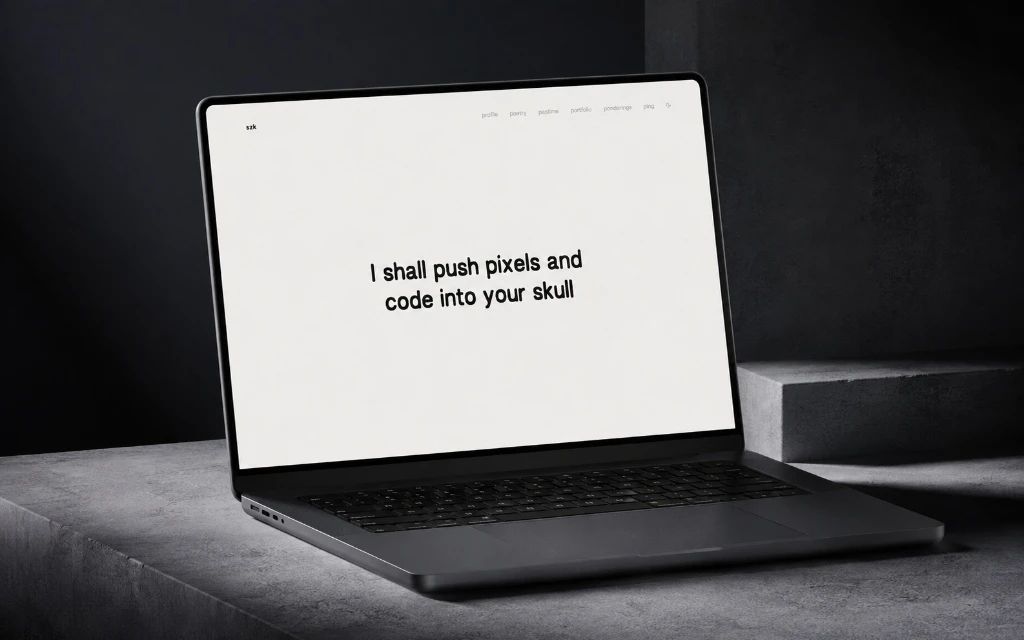
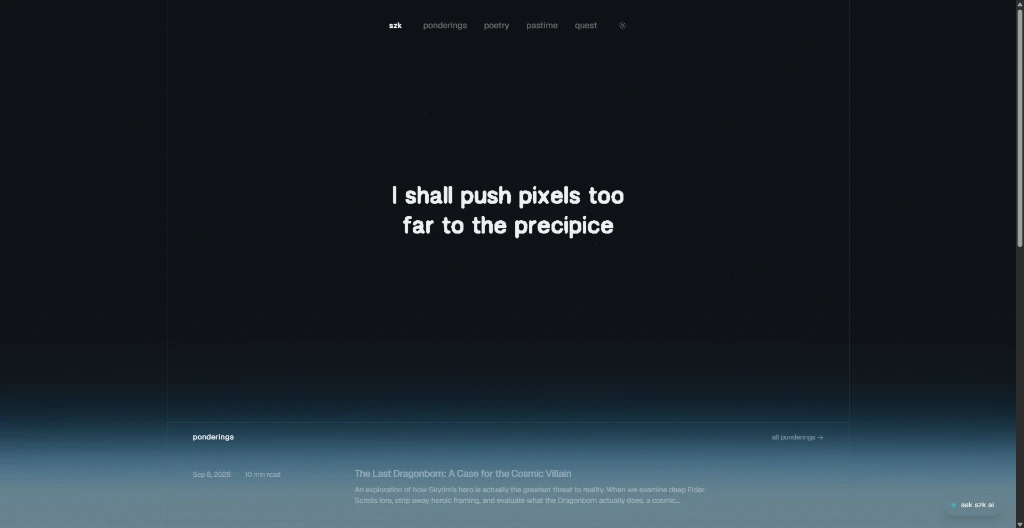
style: refine about page typography, restore szk cosmic portal and add personal links

diff --git a/src/pages/About.tsx b/src/pages/About.tsx
@@ -5,6 +5,7 @@ import { Footer } from '@/components/Footer';
 import { useExploration } from '@/context/ExplorationContext';
 import { ArtifactCollage, ArtifactImage } from '@/components/ArtifactCollage';
 import { TestimonialsMarquee } from '@/components/home/TestimonialsMarquee';
+import { BorderGlow } from '@/components/effects/BorderGlow';
 import { PERSON_JSON_LD, CANONICAL_SITE_URL } from '@/data/siteSettings';
 
 interface CertificationItem {
@@ -329,22 +330,6 @@ const About: React.FC = () => {
                     <path d="M0 28.5C0 33.7467 4.25329 38 9.5 38H19V19H9.5C4.25329 19 0 23.2533 0 28.5Z" fill="#A259FF"/>
                   </svg>
                 </div>
-                {/* Tokens Studio / Variable Token */}
-                <div title="Design Tokens / Variables" className="transition-all duration-300 filter grayscale opacity-40 group-hover:grayscale-0 group-hover:opacity-100">
-                  <svg className="h-6 w-auto" viewBox="0 0 24 24" fill="none">
-                    <rect x="3" y="3" width="8" height="8" rx="2" fill="#A855F7"/>
-                    <rect x="13" y="3" width="8" height="8" rx="2" fill="#9333EA"/>
-                    <rect x="3" y="13" width="8" height="8" rx="2" fill="#7E22CE"/>
-                    <rect x="13" y="13" width="8" height="8" rx="2" fill="#C084FC"/>
-                  </svg>
-                </div>
-                {/* FigJam */}
-                <div title="FigJam" className="transition-all duration-300 filter grayscale opacity-40 group-hover:grayscale-0 group-hover:opacity-100">
-                  <svg className="h-6 w-auto" viewBox="0 0 24 24" fill="none">
-                    <circle cx="12" cy="12" r="9" stroke="#FF7262" strokeWidth="2.5"/>
-                    <path d="M9 12H15M12 9V15" stroke="#FF7262" strokeWidth="2.5" strokeLinecap="round"/>
-                  </svg>
-                </div>
               </div>
             </div>
 
@@ -535,11 +520,10 @@ const About: React.FC = () => {
                 <div className="space-y-6 pt-1">
                   {/* Bucket 1: Interface Design */}
                   <div className="space-y-2.5">
-                    <h4 className="text-xs uppercase tracking-wider text-[#FFFFFF] font-mono flex items-center gap-2">
-                      <span className="w-1.5 h-1.5 rounded-full bg-[#FFFFFF]" />
-                      <span>Interface Design &amp; High-Stakes Client Delivery</span>
+                    <h4 className="text-xs uppercase tracking-wider text-[#FFFFFF] font-mono">
+                      Interface Design &amp; High-Stakes Client Delivery
                     </h4>
-                    <ul className="space-y-2 pl-3.5 text-xs sm:text-sm text-[#999999] leading-relaxed">
+                    <ul className="space-y-2 text-xs sm:text-sm text-[#999999] leading-relaxed">
                       <li className="flex items-start gap-2">
                         <span className="text-[#555555] shrink-0 mt-0.5">—</span>
                         <span><strong className="text-[#CCCCCC]">Alyssa Kristin (Luxury Bridal SaaS):</strong> Designed a connected multi-platform ecosystem spanning a mobile Stylist App, Web Admin CMS, and CRM; praised by the client via internal feedback as "clean, thorough, and easily accessible."</span>
@@ -561,11 +545,10 @@ const About: React.FC = () => {
 
                   {/* Bucket 2: Brand Systems & Sales Enablement */}
                   <div className="space-y-2.5">
-                    <h4 className="text-xs uppercase tracking-wider text-[#FFFFFF] font-mono flex items-center gap-2">
-                      <span className="w-1.5 h-1.5 rounded-full bg-[#FFFFFF]" />
-                      <span>Brand Systems &amp; Sales Enablement</span>
+                    <h4 className="text-xs uppercase tracking-wider text-[#FFFFFF] font-mono">
+                      Brand Systems &amp; Sales Enablement
                     </h4>
-                    <ul className="space-y-2 pl-3.5 text-xs sm:text-sm text-[#999999] leading-relaxed">
+                    <ul className="space-y-2 text-xs sm:text-sm text-[#999999] leading-relaxed">
                       <li className="flex items-start gap-2">
                         <span className="text-[#555555] shrink-0 mt-0.5">—</span>
                         <span><strong className="text-[#CCCCCC]">AI Control Tower Suite:</strong> Created complete brand identity systems, logos, OpenGraph social assets, and 10+ comprehensive sales enablement decks for enterprise products (ePhysician, Marketing AI, Client Success AI, MortgageAI, RealtorHelp, Restaurant AI, NonProfit AI).</span>
@@ -583,11 +566,10 @@ const About: React.FC = () => {
 
                   {/* Bucket 3: Client Scale & Rapid Production */}
                   <div className="space-y-2.5">
-                    <h4 className="text-xs uppercase tracking-wider text-[#FFFFFF] font-mono flex items-center gap-2">
-                      <span className="w-1.5 h-1.5 rounded-full bg-[#FFFFFF]" />
-                      <span>Client Scale &amp; Rapid Production</span>
+                    <h4 className="text-xs uppercase tracking-wider text-[#FFFFFF] font-mono">
+                      Client Scale &amp; Rapid Production
                     </h4>
-                    <ul className="space-y-2 pl-3.5 text-xs sm:text-sm text-[#999999] leading-relaxed">
+                    <ul className="space-y-2 text-xs sm:text-sm text-[#999999] leading-relaxed">
                       <li className="flex items-start gap-2">
                         <span className="text-[#555555] shrink-0 mt-0.5">—</span>
                         <span><strong className="text-[#CCCCCC]">LuCreativ / 3i Advertising:</strong> Scaled account from an initial project to sustained, near-daily production across 7+ regional theme parks (Six Flags St. Louis, Valleyfair, Michigan's Adventure, Worlds of Fun, Schlitterbahn Galveston, Enchanted Parks).</span>
@@ -601,11 +583,10 @@ const About: React.FC = () => {
 
                   {/* Bucket 4: AI Prototyping, Web Discovery & Growth */}
                   <div className="space-y-2.5">
-                    <h4 className="text-xs uppercase tracking-wider text-[#FFFFFF] font-mono flex items-center gap-2">
-                      <span className="w-1.5 h-1.5 rounded-full bg-[#FFFFFF]" />
-                      <span>AI Prototyping, Web Discovery &amp; Growth</span>
+                    <h4 className="text-xs uppercase tracking-wider text-[#FFFFFF] font-mono">
+                      AI Prototyping, Web Discovery &amp; Growth
                     </h4>
-                    <ul className="space-y-2 pl-3.5 text-xs sm:text-sm text-[#999999] leading-relaxed">
+                    <ul className="space-y-2 text-xs sm:text-sm text-[#999999] leading-relaxed">
                       <li className="flex items-start gap-2">
                         <span className="text-[#555555] shrink-0 mt-0.5">—</span>
                         <span><strong className="text-[#CCCCCC]">Web Architecture &amp; Discoverability:</strong> Structured and optimized 761+ pages across 3 major properties on the Lovable platform for on-page SEO and AI discoverability (JSON-LD schemas, semantic heading hierarchies, metadata, and Search Console indexing).</span>
@@ -801,7 +782,7 @@ const About: React.FC = () => {
               <ul className="space-y-2 text-xs text-[#888888] leading-relaxed">
                 <li className="flex items-start gap-2">
                   <span className="text-[#555555] shrink-0 mt-0.5">▪</span>
-                  <span>Served in the Service Team (সেবাদল) at the Golden Jubilee Rover Moot 2023, receiving the official Service Team Award crest with troop peers.</span>
+                  <span>Served in the Service Team at the Golden Jubilee Rover Moot 2023, receiving the official Service Team Award crest with troop peers.</span>
                 </li>
                 <li className="flex items-start gap-2">
                   <span className="text-[#555555] shrink-0 mt-0.5">▪</span>
@@ -820,9 +801,20 @@ const About: React.FC = () => {
             {/* Personal Pursuits */}
             <div className="lg:col-span-5 grid grid-cols-1 sm:grid-cols-2 lg:grid-cols-1 gap-4">
               <div className="p-5 rounded-[4px] bg-[#0A0A0A] border border-[#1F1F1F] space-y-2">
-                <div className="flex items-center gap-2 text-sm text-[#FFFFFF] font-normal border-b border-[#1A1A1A] pb-2">
-                  <span>🎬</span>
-                  <span>Cinema &amp; Human Narrative</span>
+                <div className="flex items-center justify-between border-b border-[#1A1A1A] pb-2">
+                  <div className="flex items-center gap-2 text-sm text-[#FFFFFF] font-normal">
+                    <span>🎬</span>
+                    <span>Cinema &amp; Human Narrative</span>
+                  </div>
+                  <a
+                    href="https://letterboxd.com/Annyxtopheles/"
+                    target="_blank"
+                    rel="noopener noreferrer"
+                    className="text-[11px] font-mono text-[#888888] hover:text-[#FFFFFF] transition-colors flex items-center gap-1"
+                  >
+                    <span>Letterboxd</span>
+                    <span className="text-[10px]">↗</span>
+                  </a>
                 </div>
                 <p className="text-xs text-[#999999] leading-relaxed">
                   Drawn to cinema observing human complexity, discipline, and moral weight — works by Andrei Tarkovsky, Akira Kurosawa, and Park Chan-wook.
@@ -830,9 +822,20 @@ const About: React.FC = () => {
               </div>
 
               <div className="p-5 rounded-[4px] bg-[#0A0A0A] border border-[#1F1F1F] space-y-2">
-                <div className="flex items-center gap-2 text-sm text-[#FFFFFF] font-normal border-b border-[#1A1A1A] pb-2">
-                  <span>🎧</span>
-                  <span>Music &amp; Focus</span>
+                <div className="flex items-center justify-between border-b border-[#1A1A1A] pb-2">
+                  <div className="flex items-center gap-2 text-sm text-[#FFFFFF] font-normal">
+                    <span>🎧</span>
+                    <span>Music &amp; Focus</span>
+                  </div>
+                  <a
+                    href="https://www.last.fm/user/Asphyxtonihil"
+                    target="_blank"
+                    rel="noopener noreferrer"
+                    className="text-[11px] font-mono text-[#888888] hover:text-[#FFFFFF] transition-colors flex items-center gap-1"
+                  >
+                    <span>Last.fm</span>
+                    <span className="text-[10px]">↗</span>
+                  </a>
                 </div>
                 <p className="text-xs text-[#999999] leading-relaxed">
                   Atmospheric post-rock (Godspeed You! Black Emperor, Sigur Rós) to extreme metal (Paysage d'Hiver, Ulver) and conscious hip-hop (Kendrick Lamar, MF DOOM).
@@ -840,9 +843,20 @@ const About: React.FC = () => {
               </div>
 
               <div className="p-5 rounded-[4px] bg-[#0A0A0A] border border-[#1F1F1F] space-y-2">
-                <div className="flex items-center gap-2 text-sm text-[#FFFFFF] font-normal border-b border-[#1A1A1A] pb-2">
-                  <span>✍</span>
-                  <span>Writing &amp; Conceptual Worlds</span>
+                <div className="flex items-center justify-between border-b border-[#1A1A1A] pb-2">
+                  <div className="flex items-center gap-2 text-sm text-[#FFFFFF] font-normal">
+                    <span>✍</span>
+                    <span>Writing &amp; Conceptual Worlds</span>
+                  </div>
+                  <a
+                    href="https://sadmanzamankhan.vercel.app/poetry"
+                    target="_blank"
+                    rel="noopener noreferrer"
+                    className="text-[11px] font-mono text-[#888888] hover:text-[#FFFFFF] transition-colors flex items-center gap-1"
+                  >
+                    <span>Poetry Archive</span>
+                    <span className="text-[10px]">↗</span>
+                  </a>
                 </div>
                 <p className="text-xs text-[#999999] leading-relaxed">
                   Writing poetry exploring cosmic scale, mortality, and quiet observation since 2017, building conceptual worlds from abstract thoughts.
@@ -863,51 +877,63 @@ const About: React.FC = () => {
         </section>
 
         {/* =========================================================================
-            SECTION 7: Gateway to Personal Archive (Clean, Dark, Minimalist)
+            SECTION 7: Gateway to Personal Archive (SZK Cosmic Atmosphere)
         ========================================================================= */}
-        <section ref={portalRef} className="space-y-6 pt-4 pb-16">
-          <div className="flex items-center justify-between border-b border-[#1F1F1F] pb-4">
-            <h2 className="text-2xl sm:text-3xl font-normal text-[#FFFFFF]">
-              Gateway to Personal Archive
-            </h2>
-            <a
-              href="https://sadmanzamankhan.vercel.app/"
-              target="_blank"
-              rel="noopener noreferrer"
-              className="text-xs font-mono text-[#888888] hover:text-[#FFFFFF] transition-colors"
-            >
-              sadmanzamankhan.vercel.app ↗
-            </a>
-          </div>
+        <section ref={portalRef} className="relative pt-12 pb-16 overflow-hidden">
+          <div className="max-w-4xl mx-auto space-y-10 text-center">
+            <div className="space-y-3">
+              <span className="font-scanport text-[15pt] lowercase tracking-wider text-[#7DD3FC]">
+                beyond the corporate showcase
+              </span>
+              <h2 className="font-fell text-4xl sm:text-5xl md:text-6xl font-normal lowercase tracking-tight text-[#F8FAFC]">
+                gateway to personal archive
+              </h2>
+            </div>
 
-          <div className="relative w-full">
-            <a
-              href="https://sadmanzamankhan.vercel.app/"
-              target="_blank"
-              rel="noopener noreferrer"
-              onClick={() => recordPortalFound()}
-              className="group block w-full rounded-[6px] border border-[#222222] bg-[#080808] hover:border-[#444444] transition-all duration-500 overflow-hidden cursor-pointer"
-            >
-              <div className="relative w-full aspect-[16/9] sm:aspect-[21/9] max-h-[460px] overflow-hidden bg-black flex items-center justify-center">
-                <img
-                  src="/assets/projects/szk-mockup.webp"
-                  alt="Sadman Zaman Khan Personal Archive Live Mockup"
-                  className="w-full h-full object-cover object-center transition-transform duration-700 ease-out group-hover:scale-[1.02]"
-                />
-                <div className="absolute inset-0 bg-gradient-to-t from-black/85 via-black/30 to-transparent pointer-events-none" />
+            <div className="relative w-full flex items-center justify-center">
+              <a
+                href="https://sadmanzamankhan.vercel.app/"
+                target="_blank"
+                rel="noopener noreferrer"
+                onClick={() => recordPortalFound()}
+                className="group block w-full cursor-pointer select-none no-underline"
+              >
+                <BorderGlow
+                  borderRadius={28}
+                  glowRadius={140}
+                  glowIntensity={1.4}
+                  coneSpread={28}
+                  edgeSensitivity={20}
+                  glowColor="205 85 55"
+                  backgroundColor="#060A10"
+                  colors={['#38BDF8', '#0EA5E9', '#0284C7', '#1E3A5F', '#67E8F9']}
+                  fillOpacity={0.25}
+                  className="w-full aspect-[16/10] min-h-[360px] sm:min-h-[440px] shadow-2xl transition-transform duration-300 rounded-[28px]"
+                >
+                  <div className="relative w-full h-full overflow-hidden rounded-[26px]">
+                    <img
+                      src="/assets/projects/szk-mockup.webp"
+                      alt="Sadman Zaman Khan Personal Archive Live Preview"
+                      className="absolute inset-0 w-full h-full object-cover object-center transition-transform duration-700 ease-out group-hover:scale-[1.03]"
+                    />
 
-                {/* Clean centered action badge */}
-                <div className="absolute inset-0 flex flex-col items-center justify-end pb-8 sm:pb-12 p-6 text-center space-y-3">
-                  <p className="text-xs sm:text-sm text-[#CCCCCC] font-normal max-w-md drop-shadow">
-                    Essays, poetry notebook, and personal writing.
-                  </p>
-                  <span className="inline-flex items-center gap-2 px-5 py-2.5 rounded-full text-xs font-mono uppercase tracking-wider bg-[#FFFFFF] text-[#000000] group-hover:bg-[#E5E5E5] transition-all duration-300 font-medium shadow-2xl">
-                    <span>Enter Personal Archive</span>
-                    <span>→</span>
-                  </span>
-                </div>
-              </div>
-            </a>
+                    <div className="absolute inset-0 bg-gradient-to-t from-[#060910]/90 via-[#060910]/35 to-transparent group-hover:via-[#060910]/20 transition-colors duration-300" />
+
+                    <div className="absolute inset-0 flex items-center justify-center z-10 p-4 pointer-events-none">
+                      <div className="pointer-events-auto px-8 py-3.5 sm:px-9 sm:py-4 rounded-full bg-[#F8FAFC] hover:bg-[#FFFFFF] text-[#060A10] shadow-[0_0_30px_rgba(56,189,248,0.25)] border border-[#BAE6FD] transition-all duration-300 group-hover:scale-105 flex items-center justify-center gap-3 font-scanport text-base sm:text-lg lowercase tracking-normal cursor-pointer">
+                        <span>enter personal archive</span>
+                        <span
+                          aria-hidden="true"
+                          className="inline-block shrink-0 text-base leading-none transition-transform duration-300 ease-out group-hover:-rotate-45"
+                        >
+                          →
+                        </span>
+                      </div>
+                    </div>
+                  </div>
+                </BorderGlow>
+              </a>
+            </div>
           </div>
         </section>
       </main>

diff --git a/src/components/home/TestimonialsMarquee.tsx b/src/components/home/TestimonialsMarquee.tsx
@@ -27,7 +27,7 @@ const TestimonialCard: React.FC<{ item: TestimonialItem }> = ({ item }) => (
           item.author
         )}
       </div>
-      <div className="text-[#888888] text-xs mt-0.5 font-mono lowercase">
+      <div className="text-[#888888] text-xs mt-0.5 font-mono">
         {item.role}{item.company ? ` · ${item.company}` : ''}
       </div>
     </div>
